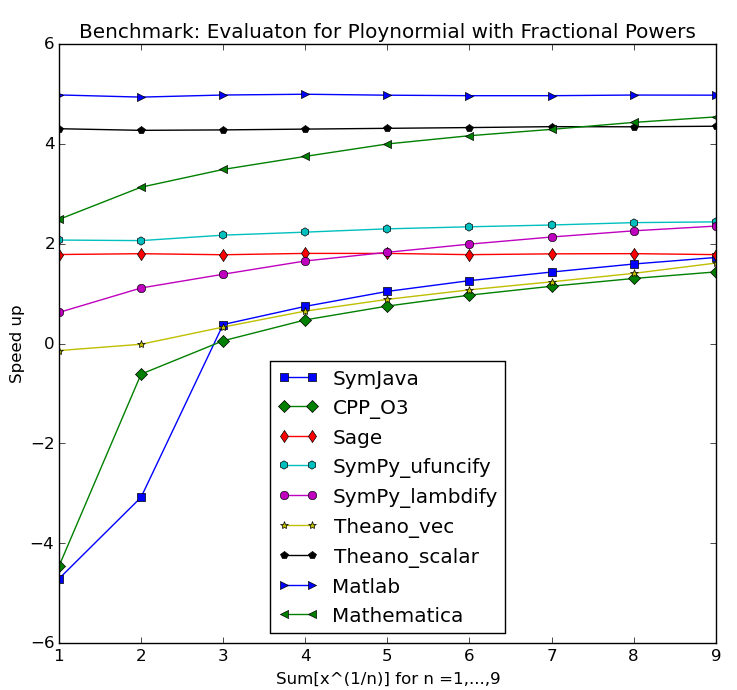
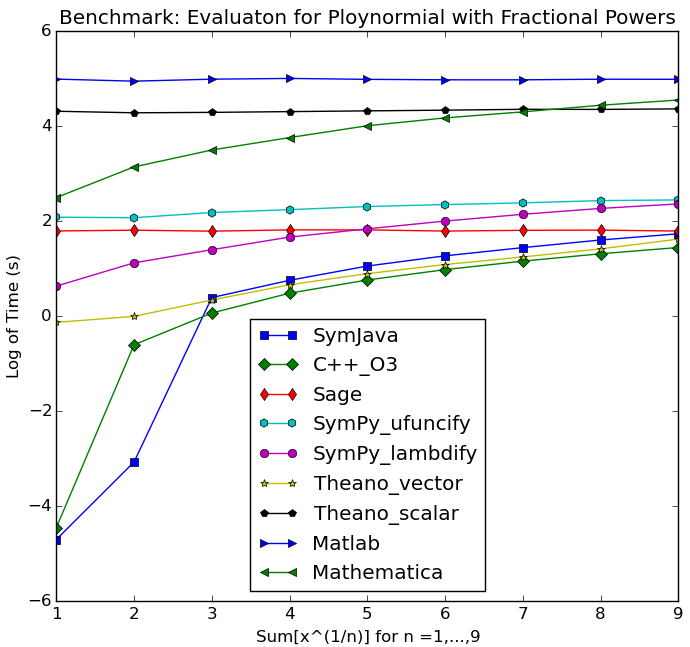
better plot

diff --git a/benchmark-data-plot-sqrt.py b/benchmark-data-plot-sqrt.py
@@ -262,10 +262,11 @@ line, = plt.plot(x, _mathematica,'<-', linewidth=1)
 
 #filled_markers = (u'o', u'v', u'^', u'<', u'>', u'8', u's', u'p', u'*', u'h', u'H', u'D', u'd')
 #ax.legend(['py_llvm_vec', 'py_llvm_scalar', 'sage', 'py_ufuncify', 'lambdify', 'theano_vec', 'theano_scalar', 'SymJava', 'SymLLVM', 'CPPO3','Matlab','Mathematica'],loc=4)
-ax.legend(['SymJava', 'CPP_O3','Sage', 'SymPy_ufuncify', 'SymPy_lambdify', 'Theano_vec', 'Theano_scalar', 'Matlab','Mathematica'],loc=8)
+ax.legend(['SymJava', 'C++_O3','Sage', 'SymPy_ufuncify', 'SymPy_lambdify', 'Theano_vector', 'Theano_scalar', 'Matlab','Mathematica'],loc=8)
 ax.set_title('Benchmark: Evaluaton for Ploynormial with Fractional Powers')
 ax.set_xlabel('Sum[x^(1/n)] for n =1,...,9')
 #ax.set_xlabel('Sum[x^(1/n)] for n =2,...,9')
-ax.set_ylabel('Speed up')
+ax.set_ylabel('Log of Time (s)')
+#ax.set_ylabel('Speed up (log)')
 plt.show()
 

diff --git a/benchmark-data-plot-taylor.py b/benchmark-data-plot-taylor.py
@@ -264,8 +264,9 @@ line, = plt.plot(x, _mathematica,'<-', linewidth=1)
 
 #filled_markers = (u'o', u'v', u'^', u'<', u'>', u'8', u's', u'p', u'*', u'h', u'H', u'D', u'd')
 #ax.legend(['py_llvm_vec', 'py_llvm_scalar', 'sage', 'py_ufuncify', 'lambdify', 'theano_vec', 'theano_scalar', 'SymJava', 'SymLLVM', 'CPPO3','Matlab','Mathematica'],loc=4)
-ax.legend(['SymJava', 'CPP_O3','Sage', 'SymPy_ufuncify', 'SymPy_lambdify', 'Theano_vec', 'Theano_scalar', 'Matlab','Mathematica'],loc=8)
+ax.legend(['SymJava', 'C++_O3','Sage', 'SymPy_ufuncify', 'SymPy_lambdify', 'Theano_vector', 'Theano_scalar', 'Matlab','Mathematica'],loc=8)
 ax.set_title('Benchmark: Evaluaton for Tayor Series of e^x expanded at x=0')
 ax.set_xlabel('Sum[(1/n!)x^n] for n =0,...,9')
-ax.set_ylabel('Speed up (log)')
+ax.set_ylabel('Log of Time (s)')
+#ax.set_ylabel('Speed up (log)')
 plt.show()
